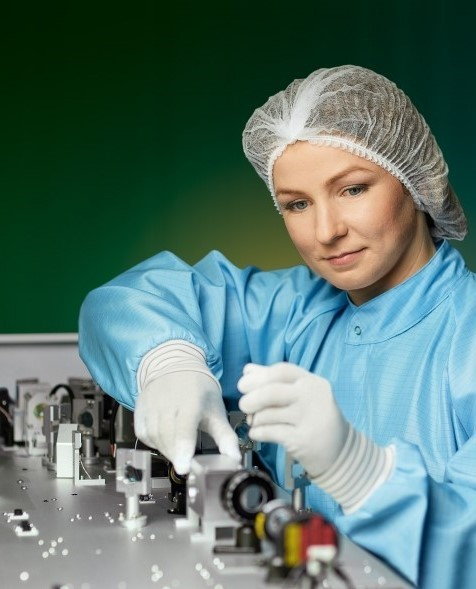
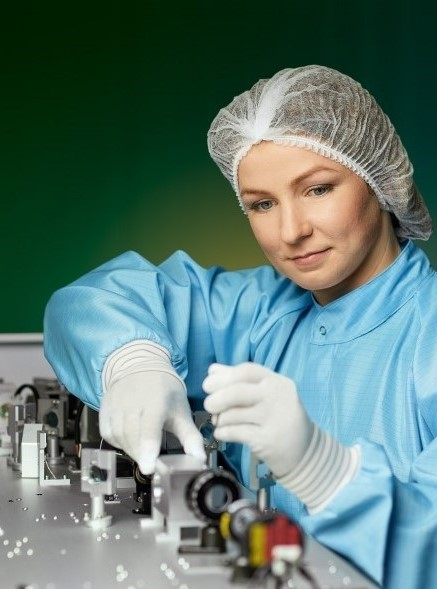
[02-09] fixed bug when saving/updating problems and employees, edited login photo

diff --git a/src/main/resources/templates/employee/employee.html b/src/main/resources/templates/employee/employee.html
@@ -46,18 +46,18 @@
         <div>
             <label class="form-label" th:text="#{employee.create.password}">Password:</label>
             <input class="form-control" type="text" placeholder="employee password" th:field="*{password}">
-            <span th:if="${#fields.hasErrors('global')}" th:errors="*{global}" th:errorclass="form-error"></span>
+            <span th:if="${#fields.hasErrors('password')}" th:errors="*{password}" th:errorclass="form-error"></span>
         </div>
 
         </br>
         <div>
             <label class="form-label" th:text="#{employee.create.repeatPassword}">Repeat Password:</label>
             <input class="form-control" type="text" placeholder="employee repeat password" th:field="*{repeatPassword}">
-            <span th:if="${#fields.hasErrors('global')}" th:errors="*{global}" th:errorclass="form-error"></span>
+            <span th:if="${#fields.hasErrors('repeatPassword')}" th:errors="*{repeatPassword}" th:errorclass="form-error"></span>
         </div>
 
         <br/>
-        <button class="btn btn-primary" type="submit" th:text="#{problem.create.action}">Submit</button>
+        <button class="btn btn-primary" id="button_enter" type="submit" th:text="#{problem.create.action}">Submit</button>
     </form>
 </main>
 <footer th:replace="~{fragments/layout :: footer}">placeholder</footer>

diff --git a/src/main/java/com/Babaitis/Project/ProblemStore/employee/dto/EmployeeDto.java b/src/main/java/com/Babaitis/Project/ProblemStore/employee/dto/EmployeeDto.java
@@ -1,7 +1,6 @@
 package com.Babaitis.Project.ProblemStore.employee.dto;
 
 import com.Babaitis.Project.ProblemStore.position.Position;
-import com.Babaitis.Project.ProblemStore.validation.RepeatPassword;
 import jakarta.validation.constraints.Email;
 import jakarta.validation.constraints.NotBlank;
 import lombok.AllArgsConstructor;
@@ -13,16 +12,15 @@ import java.util.UUID;
 @Data
 @AllArgsConstructor
 @Builder
-@RepeatPassword
 public class EmployeeDto {
     private UUID employeeUuid;
     @NotBlank (message = "{employee.name.notBlank}")
     private String name;
     @NotBlank(message = "{employee.surname.notBlank}")
-    @NotBlank
     private String surname;
     @NotBlank
     private String password;
+    @NotBlank
     private String repeatPassword;
     @NotBlank (message = "{employee.email.notBlank}")
     @Email (message = "{employee.email.wrong}")

diff --git a/src/main/java/com/Babaitis/Project/ProblemStore/security/config/SecurityConfig.java b/src/main/java/com/Babaitis/Project/ProblemStore/security/config/SecurityConfig.java
@@ -33,6 +33,8 @@ public class SecurityConfig {
                         .defaultSuccessUrl("/problems", true)
                         .usernameParameter("loginEmail")    //The HTTP parameter to look for the username
                         .passwordParameter("loginPassword")) //The HTTP parameter to look for the password
+                .csrf(csrf -> csrf.disable())
+                .cors(cors -> cors.disable())
                 .build();
     }
 
